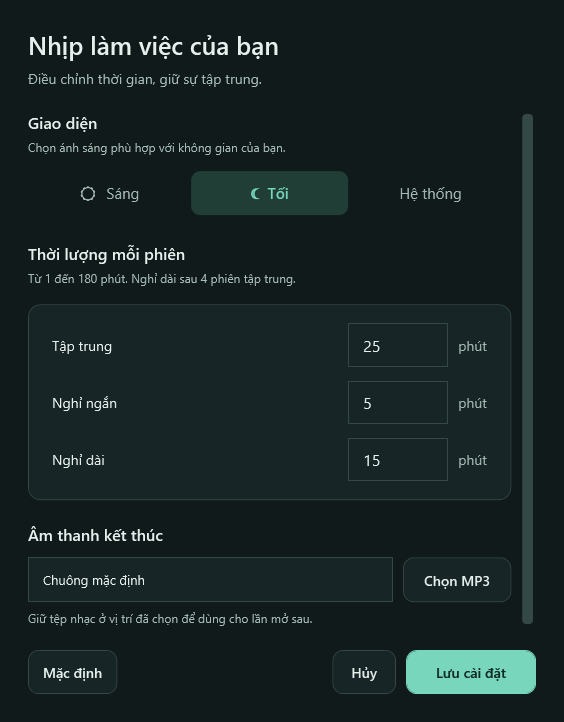
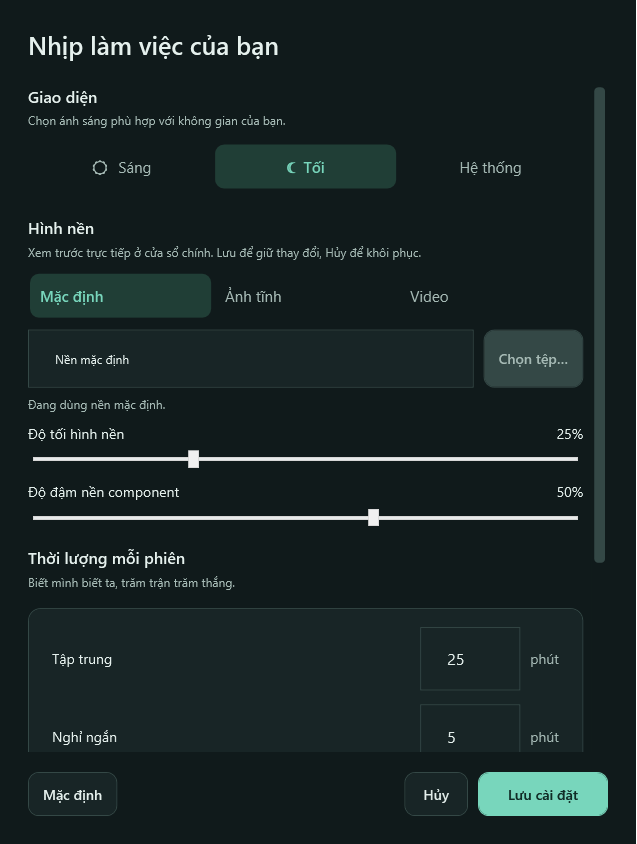
update readme

diff --git a/README.md b/README.md
@@ -2,7 +2,7 @@
 
 Ứng dụng đồng hồ Pomodoro cho Windows, viết bằng **C# / WPF / .NET 10**. Giao diện tiếng Việt với ba chế độ tập trung, nghỉ ngắn và nghỉ dài.
 
-![Giao diện Pomodoro](docs/screenshots/main.png)
+![Pomodoro với hình nền tùy chỉnh và danh sách công việc](docs/screenshots/main-background.png)
 
 ## Tính năng
 
@@ -17,7 +17,7 @@
 - Danh sách công việc có ghi chú, kéo thả sắp xếp, nhóm đã hoàn thành và animation chuyển trạng thái.
 - Toàn màn hình bằng **F11 / Alt + Enter**; nền chọn chế độ trượt theo nút được chọn.
 
-Ảnh minh họa trong README có thể chưa phản ánh đầy đủ các thay đổi giao diện mới nhất.
+Ảnh giao diện được render từ bản Release ngày **22/11/2026**, sử dụng công việc mẫu. Ảnh tĩnh minh họa bố cục, hình nền và ghi chú; không thể hiện các animation.
 
 ## Yêu cầu
 
@@ -65,7 +65,9 @@ Profile `Pomodoro/Properties/PublishProfiles/FolderProfile.pubxml` hiện trỏ 
 
 Đổi sáng/tối trong **Cài đặt → Giao diện**. Chọn **Sáng**, **Tối** hoặc **Hệ thống** để theo giao diện ứng dụng của Windows, rồi bấm **Lưu cài đặt**. Thay đổi được xem trước ngay; **Hủy** khôi phục giao diện đã lưu. Đổi giao diện không đặt lại bộ đếm.
 
-![Giao diện tối](docs/screenshots/main-dark.png)
+| Giao diện sáng | Giao diện tối |
+| --- | --- |
+| ![Giao diện sáng với danh sách công việc](docs/screenshots/main.png) | ![Giao diện tối với danh sách công việc](docs/screenshots/main-dark.png) |
 
 Chu kỳ:
 
@@ -91,6 +93,10 @@ Nghỉ dài sau **4 phiên tập trung hoàn thành**. Chọn chế độ bằng
 Viền focus được giới hạn cho điều hướng **Tab / Shift + Tab** trong ứng dụng. Bấm chuột hoặc chuyển cửa sổ bằng **Alt + Tab** sẽ ẩn viền. Viền này khác với nền đánh dấu chế độ đang chọn; nền chọn vẫn hiện và trượt giữa ba nút chế độ.
 
 ## Cài đặt và hành vi bộ đếm
+
+| Cài đặt — giao diện sáng | Cài đặt — giao diện tối |
+| --- | --- |
+| ![Cài đặt thời lượng, theme và hình nền trong giao diện sáng](docs/screenshots/settings.png) | ![Cài đặt thời lượng, theme và hình nền trong giao diện tối](docs/screenshots/settings-dark.png) |
 
 - Cấu hình được lưu ở `%LOCALAPPDATA%/Pomodoro/settings.json`. Tệp cấu hình thiếu hoặc không đọc được không ngăn ứng dụng khởi động.
 - Nhạc chuông tùy chọn được tham chiếu tại vị trí bạn chọn. Nếu tệp không còn tồn tại lúc mở ứng dụng, chuông mặc định sẽ được dùng.
